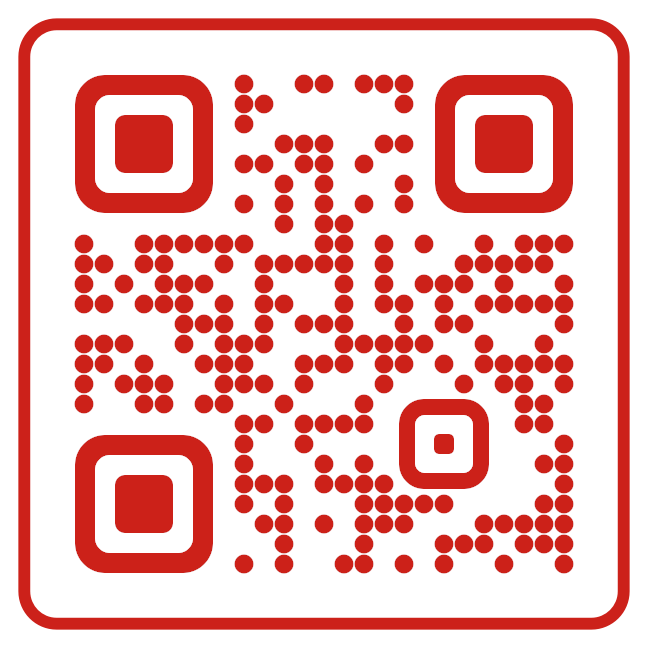
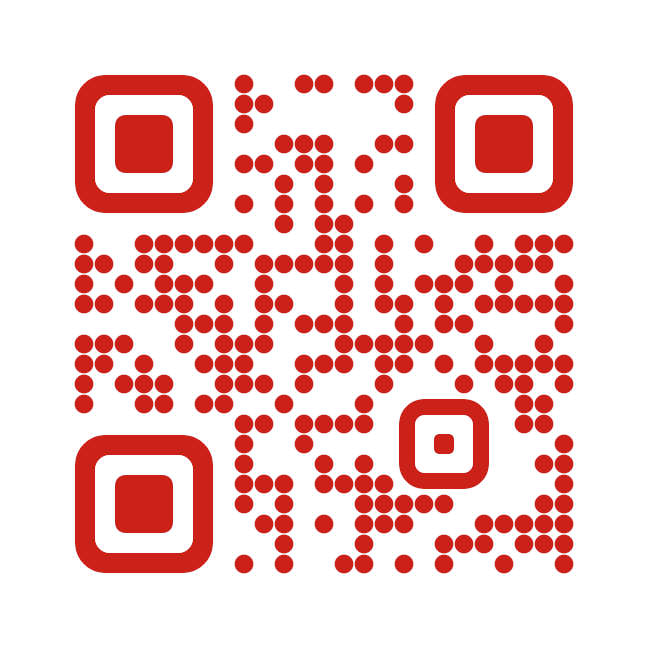
Karui QR: no ring around the code, quicker start, longer look at the stamp
The finished code has a plain white margin: the generator no longer draws the
ring, and the page's frame fades away over the second half of its widening.
The stamp starts after 30 ms instead of 90 and holds 700 ms instead of 300.

Changed region(s): [[0.0309, 0.0309, 0.9877, 0.9877]]

diff --git a/karui-qr.html b/karui-qr.html
@@ -34,7 +34,7 @@
        into place, then the real code image takes over. Without JavaScript, or with
        Reduce Motion, the finished code shows straight away. */
     .karui-qr-morph { position: relative; flex: 0 0 100%; aspect-ratio: 1; scroll-snap-align: center; container-type: inline-size; }
-    .karui-qr-morph-frame { position: absolute; box-sizing: border-box; border: 0 solid #cc2119; overflow: hidden; }
+    .karui-qr-morph-frame { position: absolute; box-sizing: border-box; border: 0 solid transparent; overflow: hidden; }
     .karui-qr-morph > img, .karui-qr-morph > svg { position: absolute; inset: 0; width: 100%; height: 100%; }
     .karui-qr-morph-frame > svg { position: absolute; width: 100cqw; height: 100cqw; overflow: visible; }
     .karui-qr-morph-name { opacity: 0; }
@@ -50,12 +50,12 @@
         <div class="karui-qr-morph">
           <img class="karui-qr-morph-name" src="assets/karui-qr-seal-tagline-name.png?v=5" alt="" width="648" height="648">
           <svg class="karui-qr-morph-dots" aria-hidden="true"></svg>
-          <img class="karui-qr-morph-final" src="assets/karui-qr-seal.png?v=3" alt="QR code that opens https://karui.jp/, in seal red" width="648" height="648">
+          <img class="karui-qr-morph-final" src="assets/karui-qr-seal.png?v=4" alt="QR code that opens https://karui.jp/, in seal red" width="648" height="648">
         </div>
         <div class="karui-qr-morph">
           <img class="karui-qr-morph-name" src="assets/karui-qr-seal-name.png?v=5" alt="" width="648" height="648">
           <svg class="karui-qr-morph-dots" aria-hidden="true"></svg>
-          <img class="karui-qr-morph-final" src="assets/karui-qr-seal.png?v=3" alt="QR code that opens https://karui.jp/, in seal red" width="648" height="648">
+          <img class="karui-qr-morph-final" src="assets/karui-qr-seal.png?v=4" alt="QR code that opens https://karui.jp/, in seal red" width="648" height="648">
         </div>
         <img src="assets/karui-qr.png?v=2" alt="QR code that opens https://karui.jp/" width="719" height="719">
       </div>
@@ -108,7 +108,7 @@
     // The seals: 通知をかるく first, then ガルシア a swipe away. Each hand-carved stamp
     // is inked onto the page, then its lettering dissolves into dots while a drawn
     // frame takes over from the stamp's border, and the dots curve into their places
-    // in the QR code while the frame widens into a square. The real code image takes
+    // in the QR code while the frame widens and fades away. The real code image takes
     // over, so what people scan is the tested image. Each plays once per visit, when it's swiped into view. Tap to
     // skip. Reduce Motion shows the finished codes at once.
     (() => {
@@ -123,8 +123,8 @@
       // into dots, hold the dotted name still, curve the dots into place, settle the
       // markers, then hand over to the code image. Everything after the stamp is
       // timed from when it's done.
-      const stamp = { delay: 90, duration: 525 };
-      const T = { hold: 300, dissolve: 305, dotted: 250, travel: 1000, stagger: 350, markers: 1600, markersFor: 440, final: 2125, finalFor: 265 };
+      const stamp = { delay: 30, duration: 525 };
+      const T = { hold: 700, dissolve: 305, dotted: 250, travel: 1000, stagger: 350, markers: 2000, markersFor: 440, final: 2525, finalFor: 265 };
       const easeInOut = (t) => (t < 0.5 ? 4 * t * t * t : 1 - Math.pow(-2 * t + 2, 3) / 2);
 
       const make = (tag, attributes) => {
@@ -271,6 +271,11 @@
           });
           const widening = timing(T.hold + T.dissolve + T.dotted, T.travel * 0.8, { easing: 'cubic-bezier(0.65, 0, 0.35, 1)' });
           running.push(frame.element.animate([frame.from, frame.to], widening));
+          // The code has no frame of its own, so the drawn one fades away over the second
+          // half of its widening, leaving the code a plain white margin. Its resting colour
+          // is transparent, so skipping leaves no frame either.
+          running.push(frame.element.animate([{ borderColor: ink }, { borderColor: 'transparent' }],
+            timing(T.hold + T.dissolve + T.dotted + T.travel * 0.4, T.travel * 0.6, { easing: 'ease-in' })));
           running.push(svg.animate([frame.dotsFrom, frame.dotsTo], widening));
           markers.forEach((marker) => running.push(marker.animate(
             [{ transform: 'scale(0.6)', opacity: 0 }, { transform: 'scale(1)', opacity: 1 }],

diff --git a/scripts/generate-karui-seal-qr.swift b/scripts/generate-karui-seal-qr.swift
@@ -2,12 +2,13 @@
 // narrow frame, turns into a QR code for karui.jp. There are two: 通知をかるく, the
 // App Store name's tagline, and ガルシア, the footer seal, both from the scans of
 // hand-carved stamps in scripts/karui-seal-scans.
-//   assets/karui-qr-seal.png       the plain red QR code in a square frame, where
-//                                  both end
+//   assets/karui-qr-seal.png       the plain red QR code on white, with no frame
+//                                  around it, where both end
 //   assets/karui-qr-seal-tagline-name.png, assets/karui-qr-seal-name.png
 //                                  each stamp, border and all, in the code's red on
 //                                  transparent; the page fades its own frame in over
-//                                  the stamp's border so it can widen
+//                                  the stamp's border so it can widen, then fades it
+//                                  out, so the code ends with a plain white margin
 //   assets/karui-qr-seal-tagline.json, assets/karui-qr-seal.json
 //                                  each data dot's start (on the lettering) and end
 //                                  (its QR module), extra dots that fill out the
@@ -55,7 +56,8 @@ let frameInset = margin * 0.45, frameWidth = size * 0.022, frameRadius = size * 
 // plain grid is centered at margin + (col + 0.5) * pitch in the rounded one.
 let pitch = size / CGFloat(gridPixels)
 
-func render(framed: Bool = true, _ body: (CGContext) -> Void) -> NSBitmapImageRep {
+// On white for the code, so its quiet zone is light; on transparent for the stamps.
+func render(onWhite: Bool = true, _ body: (CGContext) -> Void) -> NSBitmapImageRep {
     let bitmap = NSBitmapImageRep(
         bitmapDataPlanes: nil, pixelsWide: Int(canvas), pixelsHigh: Int(canvas),
         bitsPerSample: 8, samplesPerPixel: 4, hasAlpha: true, isPlanar: false,
@@ -64,22 +66,11 @@ func render(framed: Bool = true, _ body: (CGContext) -> Void) -> NSBitmapImageRe
     NSGraphicsContext.saveGraphicsState()
     NSGraphicsContext.current = NSGraphicsContext(bitmapImageRep: bitmap)
     let context = NSGraphicsContext.current!.cgContext
-    guard framed else {
-        body(context)
-        NSGraphicsContext.restoreGraphicsState()
-        return bitmap
+    if onWhite {
+        NSColor.white.setFill()
+        NSRect(x: 0, y: 0, width: canvas, height: canvas).fill()
     }
-    NSColor.white.setFill()
-    NSRect(x: 0, y: 0, width: canvas, height: canvas).fill()
     body(context)
-    let frame = NSBezierPath(
-        roundedRect: NSRect(x: 0, y: 0, width: canvas, height: canvas).insetBy(dx: frameInset, dy: frameInset),
-        xRadius: frameRadius,
-        yRadius: frameRadius
-    )
-    frame.lineWidth = frameWidth
-    ink.setStroke()
-    frame.stroke()
     NSGraphicsContext.restoreGraphicsState()
     return bitmap
 }
@@ -261,7 +252,7 @@ func seal(stamp path: String, name: String, json: String, sampleStep: Int, extra
         context.fill(stampRect)
         context.restoreGState()
     }
-    write(render(framed: false) { draw(stamp.ink, in: $0, color: ink) }, to: name)
+    write(render(onWhite: false) { draw(stamp.ink, in: $0, color: ink) }, to: name)
 
     // Sample the lettering, without the border, which becomes the frame: rasterize it,
     // then keep evenly spread points on the ink.
